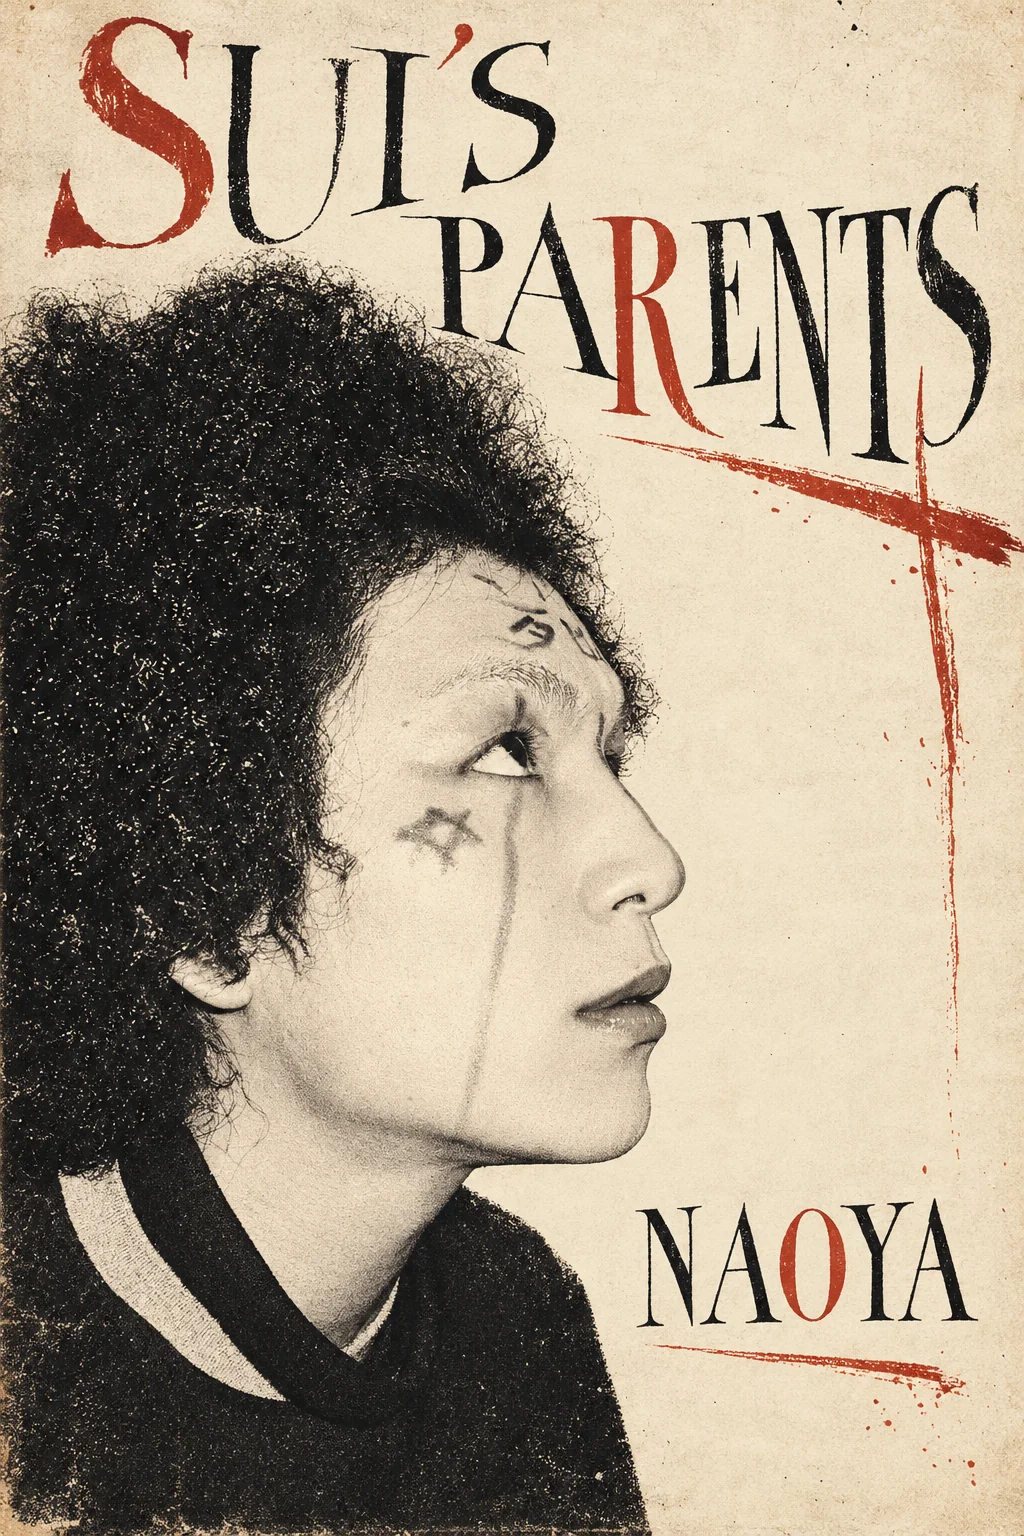
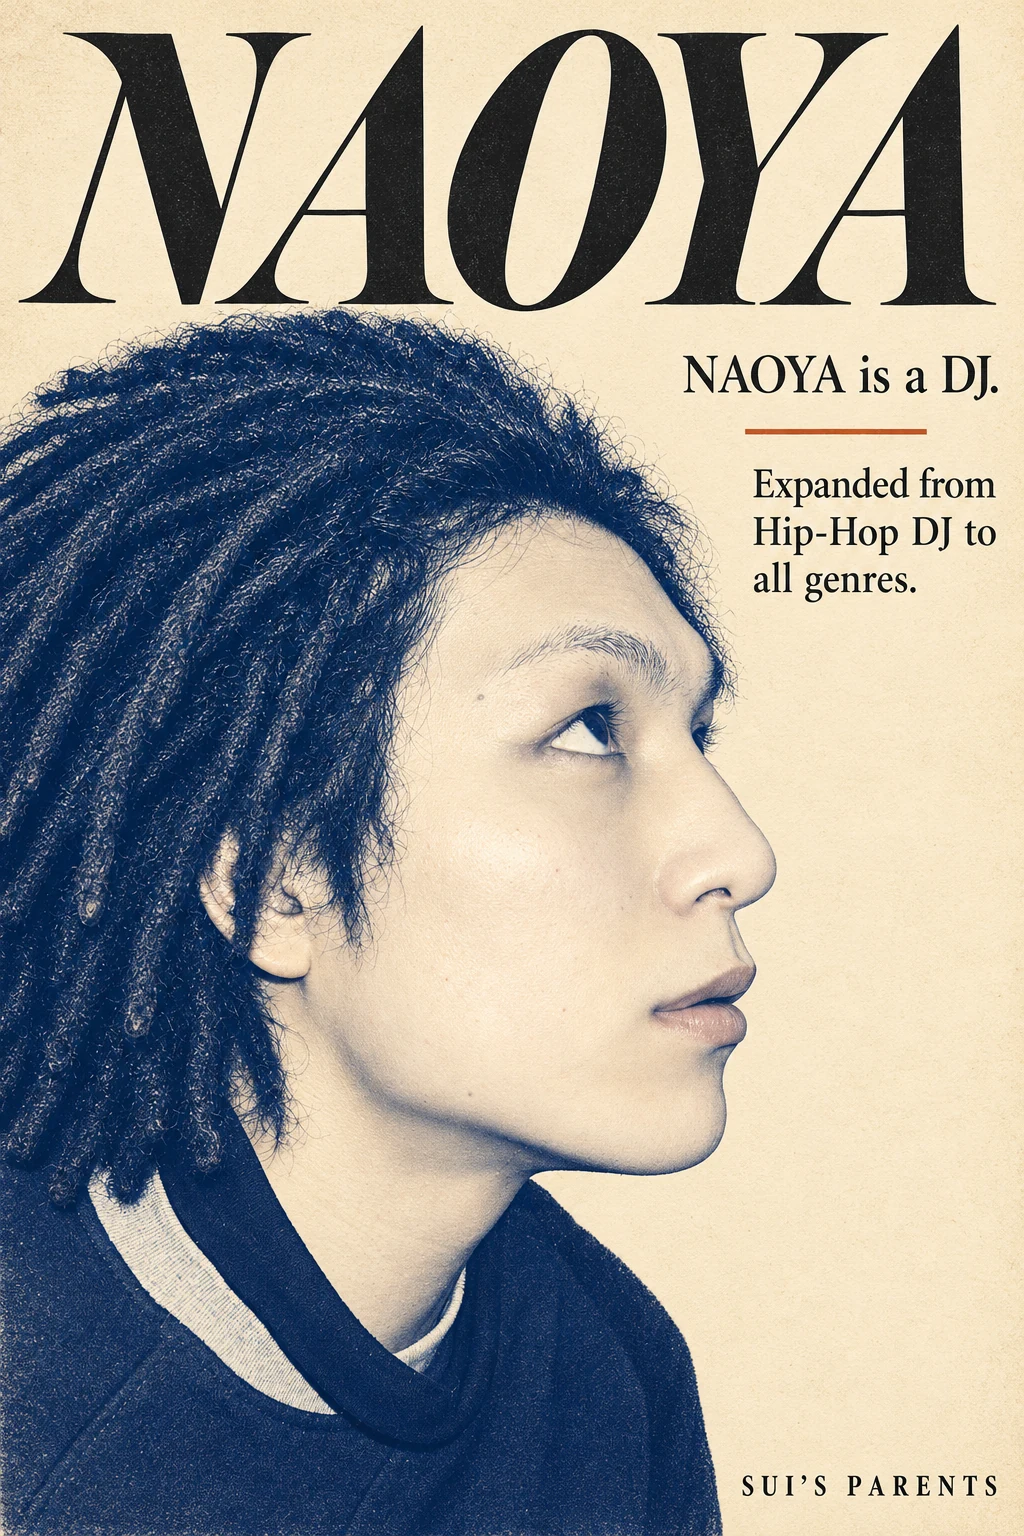
Refine NAOYA poster and embed supplied DJ story

diff --git a/build.py b/build.py
@@ -21,7 +21,7 @@ about_posters = [
  ('05', 'SAYA', 'カフェの窓辺でうつむくSAYAをボルドー色とクリーム色で描いたポスター'),
  ('06', 'Horloge', '建築の時計をモチーフにした正方形のポスター'),
  ('08', 'Manège', '青空を背景に回転ブランコを描いた正方形のポスター'),
- ('10', 'NAOYA', '顔にメイクを施したNAOYAの横顔と赤い筆跡を組み合わせたポスター'),
+ ('10', 'NAOYA', 'ドレッドヘアのNAOYAの横顔にDJとしての歩みを英語で添えた、クリーム色と深い青のポスター'),
  ('07', 'Marionnettes', '仮面と装飾的な人形を黒、金、深紅で描いたポスター'),
  ('11', 'SAYA', 'SAYAの肖像を余白と朱色の帯で構成した正方形のレコードジャケット風アート'),
  ('12', 'NAOYA', 'NAOYAのカフェでの横顔を紺色の文字と組み合わせた正方形のレコードジャケット風アート'),
